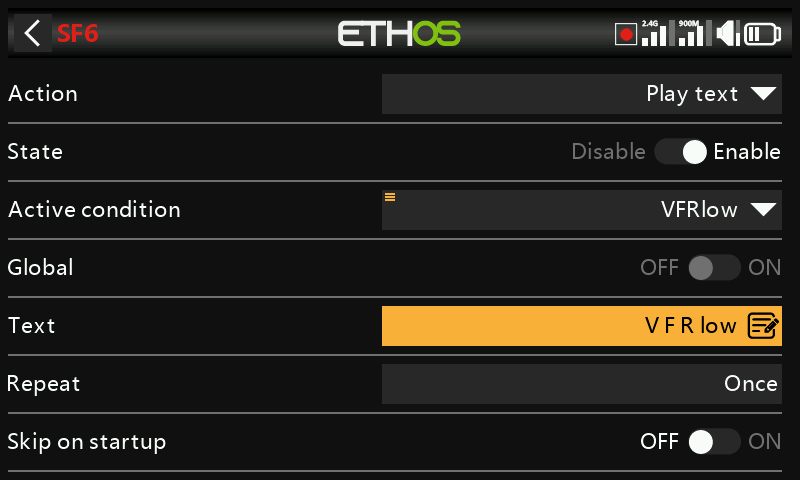
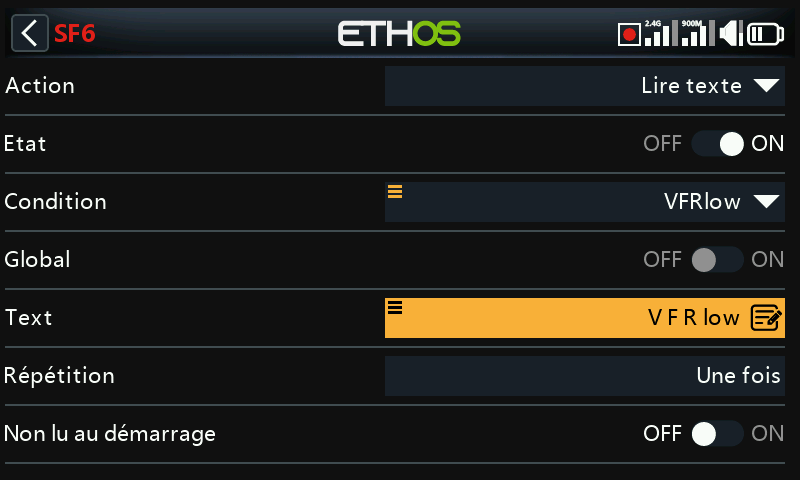
[fr] X20PRO screenshots updated

Changed region(s): [[0.0, 0.1562, 1.0, 1.0], [0.0, 0.0, 1.0, 0.125]]

diff --git a/forge/screenshots.py b/forge/screenshots.py
@@ -88,8 +88,13 @@ X20S_MACROS = [
 ]
 
 
+X20PRO_MACROS = [
+  "x20pro.lua"
+]
+
 ALL_MACROS = {
     "X20S_FCC": X20S_MACROS,
+    "X20PRO_FCC": X20PRO_MACROS,
 }
 
 
